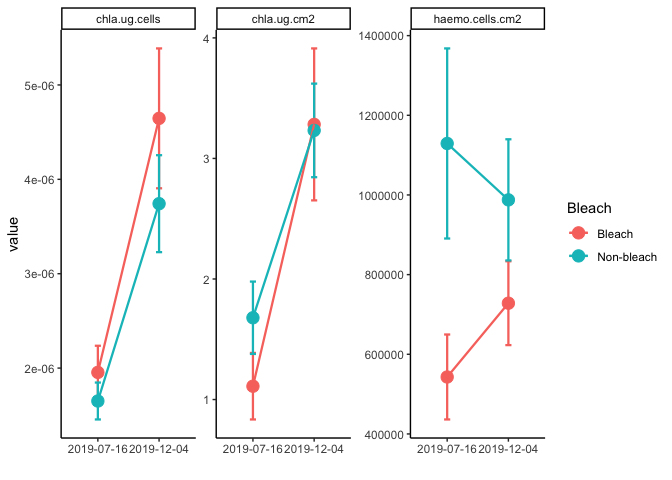
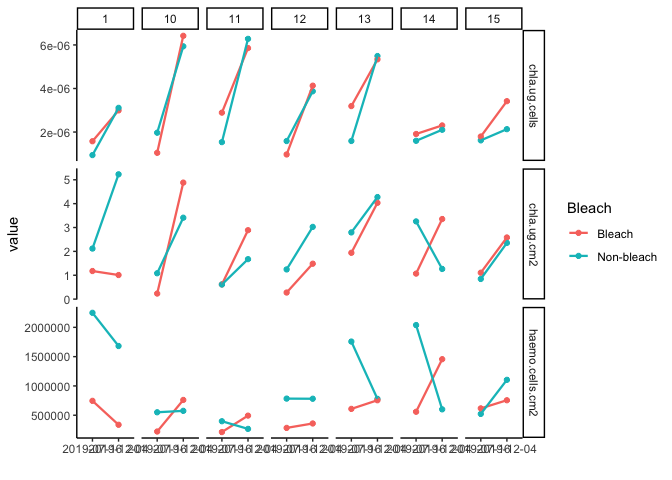
relative change for phys and updating plots

diff --git a/Dec-July-2019-analysis/scripts/chlorophyll.md b/Dec-July-2019-analysis/scripts/chlorophyll.md
@@ -226,7 +226,9 @@ df <- full_join(df, meta, by = c("ColonyID", "Date")) %>%
          chlc2.ug.cells = (chlc2.ug.ml * `volume (mL)`) / cells) %>%
   gather(measurement, value, 13:18) %>%
   filter(!is.na(value)) %>%
-  subset(measurement == "chla.ug.cells" | measurement == "chla.ug.cm2" | measurement == "haemo.cells.cm2")
+  subset(measurement == "chla.ug.cells" | 
+           measurement == "chla.ug.cm2" | 
+           measurement == "haemo.cells.cm2")
 
 df$Date <- as.character(df$Date)
 
@@ -246,24 +248,298 @@ df %>%
 ![](chlorophyll_files/figure-gfm/unnamed-chunk-3-1.png)<!-- -->
 
 ``` r
-df2 %>%
-  ggplot(., aes(x=Date, y=value, color=Bleach)) + 
-  geom_errorbar(aes(ymin=value-se, ymax=value+se), size=0.8, width=.1) +
-  theme_classic() + xlab("") + geom_point(size=4) +
-  geom_line(aes(group = Bleach), size=0.8) +
-  facet_wrap(~measurement, scales = "free")
-```
-
-![](chlorophyll_files/figure-gfm/unnamed-chunk-3-2.png)<!-- -->
-
-``` r
 df %>%
   subset(!Pair == "2" & !Pair == "3" & !Pair == "9") %>%
-  subset(!measurement == "chla.ug.cm2") %>%
+  #subset(!measurement == "chla.ug.cm2") %>%
   ggplot(., aes(x=Date, y=value, color=Bleach)) +
   theme_classic() + xlab("") +
   geom_point() + geom_line(aes(group = ColonyID), size=0.8) +
   facet_grid(measurement~Pair, scales = "free")
 ```
 
+![](chlorophyll_files/figure-gfm/unnamed-chunk-3-2.png)<!-- -->
+
+``` r
+df %>%
+  ggplot(., aes(x=Date, y=value, color=Bleach)) +
+  geom_point(alpha=0.2) +
+  theme_classic() + xlab("") + ylab("") +
+  geom_point(data = df2, aes(x=Date, y=value), size=3) +
+  geom_errorbar(data = df2, aes(ymin=value-se, ymax=value+se), size=0.8, width=.1) +
+  geom_line(data=df2, aes(group = Bleach), size=0.8) +
+  facet_wrap(~measurement, scales = "free")
+```
+
 ![](chlorophyll_files/figure-gfm/unnamed-chunk-3-3.png)<!-- -->
+
+``` r
+df2 %>%
+  ggplot(., aes(x=Date, y=value, color=Bleach)) + 
+  theme_classic() + xlab("") + geom_point(size=4) +
+  geom_errorbar(aes(ymin=value-se, ymax=value+se), size=0.8, width=.1) +
+  geom_line(aes(group = Bleach), size=0.8) +
+  facet_wrap(~measurement, scales = "free")
+```
+
+![](chlorophyll_files/figure-gfm/unnamed-chunk-3-4.png)<!-- -->
+
+## Relative Change
+
+``` r
+rel.change <- df %>% 
+  select(ColonyID, Date, Site, Pair, Bleach, measurement, value) %>%
+  pivot_wider(id_cols = c("ColonyID", "Site", "Pair", "Bleach"),
+            names_from = c("measurement", "Date"),
+            values_from = value) %>%
+  mutate(density_change = `haemo.cells.cm2_2019-12-04`-`haemo.cells.cm2_2019-07-16`,
+         chlcm2_change = `chla.ug.cm2_2019-12-04` - `chla.ug.cm2_2019-07-16`,
+         chlcell_change = `chla.ug.cells_2019-12-04` - `chla.ug.cells_2019-07-16`) %>%
+  select(ColonyID, Site, Pair, Bleach, density_change, chlcm2_change, chlcell_change) %>%
+  na.omit() %>%
+  gather(measurement, value, 5:7)
+
+rel.change %>%
+  ggplot(., aes(x=Bleach, y=value, color=Bleach)) + 
+  geom_boxplot() + geom_point() +
+  ylab("Relative change") +
+  geom_hline(yintercept = 0, lty = "dotted", size=1.2, color="grey2") +
+  theme_classic() + facet_wrap(~measurement, scales = "free")
+```
+
+![](chlorophyll_files/figure-gfm/unnamed-chunk-4-1.png)<!-- -->
+
+``` r
+rel.change2 <- summarySE(rel.change, measurevar = c("value"), groupvars = c("Bleach", "measurement"))
+
+rel.change %>% 
+  ggplot(., aes(x=Bleach, y=value, color=Bleach)) + 
+  geom_point(alpha=0.2) +
+  geom_point(data = rel.change2, aes(x=Bleach, y=value), size=3) +
+  geom_errorbar(data = rel.change2, aes(ymin=value-se, ymax=value+se), size=0.5, width=.1) +
+  theme_classic() + xlab("") + 
+  ylab("Relative change") +
+  geom_hline(yintercept = 0, lty = "dotted", size=1.2, color="grey2") +
+  facet_wrap(~measurement, scales = "free")
+```
+
+![](chlorophyll_files/figure-gfm/unnamed-chunk-4-2.png)<!-- -->
+
+## Statistics
+
+### Chlorophyll per cell
+
+``` r
+df_stats <- df %>%
+  spread(measurement, value)
+  
+CHLcells_model <- lmer(chla.ug.cells~Date*Bleach + (1|Pair/ColonyID), data=df_stats) 
+```
+
+    ## boundary (singular) fit: see help('isSingular')
+
+``` r
+  # boundary (singular) fit: see help('isSingular')
+summary(CHLcells_model)
+```
+
+    ## Linear mixed model fit by REML ['lmerMod']
+    ## Formula: chla.ug.cells ~ Date * Bleach + (1 | Pair/ColonyID)
+    ##    Data: df_stats
+    ## 
+    ## REML criterion at convergence: -782.1
+    ## 
+    ## Scaled residuals: 
+    ##     Min      1Q  Median      3Q     Max 
+    ## -1.2969 -0.6551 -0.1051  0.3234  3.2961 
+    ## 
+    ## Random effects:
+    ##  Groups        Name        Variance  Std.Dev. 
+    ##  ColonyID:Pair (Intercept) 0.000e+00 0.000e+00
+    ##  Pair          (Intercept) 6.360e-13 7.975e-07
+    ##  Residual                  1.819e-12 1.349e-06
+    ## Number of obs: 37, groups:  ColonyID:Pair, 20; Pair, 10
+    ## 
+    ## Fixed effects:
+    ##                                   Estimate Std. Error t value
+    ## (Intercept)                      1.844e-06  5.466e-07   3.373
+    ## Date2019-12-04                   2.802e-06  6.458e-07   4.339
+    ## BleachNon-bleach                -8.945e-08  6.654e-07  -0.134
+    ## Date2019-12-04:BleachNon-bleach -8.146e-07  8.981e-07  -0.907
+    ## 
+    ## Correlation of Fixed Effects:
+    ##              (Intr) Dt2019-12-04 BlchN-
+    ## Dt2019-12-04 -0.666                    
+    ## BlchNn-blch  -0.649  0.550             
+    ## D2019-12-04:  0.481 -0.721       -0.741
+    ## optimizer (nloptwrap) convergence code: 0 (OK)
+    ## boundary (singular) fit: see help('isSingular')
+
+``` r
+qqPlot(residuals(CHLcells_model))
+```
+
+![](chlorophyll_files/figure-gfm/unnamed-chunk-5-1.png)<!-- -->
+
+    ## [1] 29 17
+
+``` r
+leveneTest(residuals(CHLcells_model)~Date*Bleach, data=df_stats)
+```
+
+    ## Levene's Test for Homogeneity of Variance (center = median)
+    ##       Df F value Pr(>F)
+    ## group  3  1.4879 0.2358
+    ##       33
+
+``` r
+Anova(CHLcells_model, ddf="lme4", type='III')
+```
+
+    ## Analysis of Deviance Table (Type III Wald chisquare tests)
+    ## 
+    ## Response: chla.ug.cells
+    ##               Chisq Df Pr(>Chisq)    
+    ## (Intercept) 11.3785  1   0.000743 ***
+    ## Date        18.8288  1   1.43e-05 ***
+    ## Bleach       0.0181  1   0.893057    
+    ## Date:Bleach  0.8228  1   0.364372    
+    ## ---
+    ## Signif. codes:  0 '***' 0.001 '**' 0.01 '*' 0.05 '.' 0.1 ' ' 1
+
+### Chlorophyll per cm2
+
+``` r
+CHLcm2_model <- lmer(chla.ug.cm2~Date*Bleach + (1|Pair/ColonyID), data=df_stats) 
+summary(CHLcm2_model)
+```
+
+    ## Linear mixed model fit by REML ['lmerMod']
+    ## Formula: chla.ug.cm2 ~ Date * Bleach + (1 | Pair/ColonyID)
+    ##    Data: df_stats
+    ## 
+    ## REML criterion at convergence: 119.7
+    ## 
+    ## Scaled residuals: 
+    ##      Min       1Q   Median       3Q      Max 
+    ## -1.93394 -0.39834  0.05946  0.24544  2.79774 
+    ## 
+    ## Random effects:
+    ##  Groups        Name        Variance Std.Dev.
+    ##  ColonyID:Pair (Intercept) 0.08183  0.2861  
+    ##  Pair          (Intercept) 0.51020  0.7143  
+    ##  Residual                  1.25788  1.1216  
+    ## Number of obs: 37, groups:  ColonyID:Pair, 20; Pair, 10
+    ## 
+    ## Fixed effects:
+    ##                                 Estimate Std. Error t value
+    ## (Intercept)                       1.0531     0.4730   2.226
+    ## Date2019-12-04                    2.2292     0.5388   4.137
+    ## BleachNon-bleach                  0.7615     0.5704   1.335
+    ## Date2019-12-04:BleachNon-bleach  -0.8113     0.7487  -1.084
+    ## 
+    ## Correlation of Fixed Effects:
+    ##              (Intr) Dt2019-12-04 BlchN-
+    ## Dt2019-12-04 -0.646                    
+    ## BlchNn-blch  -0.643  0.538             
+    ## D2019-12-04:  0.467 -0.721       -0.723
+
+``` r
+qqPlot(residuals(CHLcm2_model))
+```
+
+![](chlorophyll_files/figure-gfm/unnamed-chunk-6-1.png)<!-- -->
+
+    ## [1] 29 12
+
+``` r
+leveneTest(residuals(CHLcm2_model)~Date*Bleach, data=df_stats)
+```
+
+    ## Levene's Test for Homogeneity of Variance (center = median)
+    ##       Df F value Pr(>F)
+    ## group  3  1.8693  0.154
+    ##       33
+
+``` r
+Anova(CHLcm2_model, ddf="lme4", type='III')
+```
+
+    ## Analysis of Deviance Table (Type III Wald chisquare tests)
+    ## 
+    ## Response: chla.ug.cm2
+    ##               Chisq Df Pr(>Chisq)    
+    ## (Intercept)  4.9570  1    0.02598 *  
+    ## Date        17.1161  1  3.516e-05 ***
+    ## Bleach       1.7824  1    0.18186    
+    ## Date:Bleach  1.1744  1    0.27850    
+    ## ---
+    ## Signif. codes:  0 '***' 0.001 '**' 0.01 '*' 0.05 '.' 0.1 ' ' 1
+
+### Cell density
+
+``` r
+cells_model <- lmer(haemo.cells.cm2~Date*Bleach + (1|Pair/ColonyID), data=df_stats) 
+summary(cells_model)
+```
+
+    ## Linear mixed model fit by REML ['lmerMod']
+    ## Formula: haemo.cells.cm2 ~ Date * Bleach + (1 | Pair/ColonyID)
+    ##    Data: df_stats
+    ## 
+    ## REML criterion at convergence: 964.5
+    ## 
+    ## Scaled residuals: 
+    ##      Min       1Q   Median       3Q      Max 
+    ## -1.36584 -0.47149 -0.08893  0.43328  1.82845 
+    ## 
+    ## Random effects:
+    ##  Groups        Name        Variance  Std.Dev.
+    ##  ColonyID:Pair (Intercept) 2.930e+10 171175  
+    ##  Pair          (Intercept) 4.210e+10 205186  
+    ##  Residual                  1.637e+11 404573  
+    ## Number of obs: 37, groups:  ColonyID:Pair, 20; Pair, 10
+    ## 
+    ## Fixed effects:
+    ##                                 Estimate Std. Error t value
+    ## (Intercept)                       552214     169402   3.260
+    ## Date2019-12-04                    176017     194743   0.904
+    ## BleachNon-bleach                  592620     214958   2.757
+    ## Date2019-12-04:BleachNon-bleach  -333183     270338  -1.232
+    ## 
+    ## Correlation of Fixed Effects:
+    ##              (Intr) Dt2019-12-04 BlchN-
+    ## Dt2019-12-04 -0.653                    
+    ## BlchNn-blch  -0.674  0.516             
+    ## D2019-12-04:  0.472 -0.721       -0.694
+
+``` r
+qqPlot(residuals(cells_model))
+```
+
+![](chlorophyll_files/figure-gfm/unnamed-chunk-7-1.png)<!-- -->
+
+    ## [1] 4 6
+
+``` r
+leveneTest(residuals(cells_model)~Date*Bleach, data=df_stats)
+```
+
+    ## Levene's Test for Homogeneity of Variance (center = median)
+    ##       Df F value Pr(>F)
+    ## group  3  2.1525 0.1124
+    ##       33
+
+``` r
+Anova(cells_model, ddf="lme4", type='III')
+```
+
+    ## Analysis of Deviance Table (Type III Wald chisquare tests)
+    ## 
+    ## Response: haemo.cells.cm2
+    ##               Chisq Df Pr(>Chisq)   
+    ## (Intercept) 10.6262  1   0.001115 **
+    ## Date         0.8169  1   0.366077   
+    ## Bleach       7.6006  1   0.005835 **
+    ## Date:Bleach  1.5190  1   0.217774   
+    ## ---
+    ## Signif. codes:  0 '***' 0.001 '**' 0.01 '*' 0.05 '.' 0.1 ' ' 1
